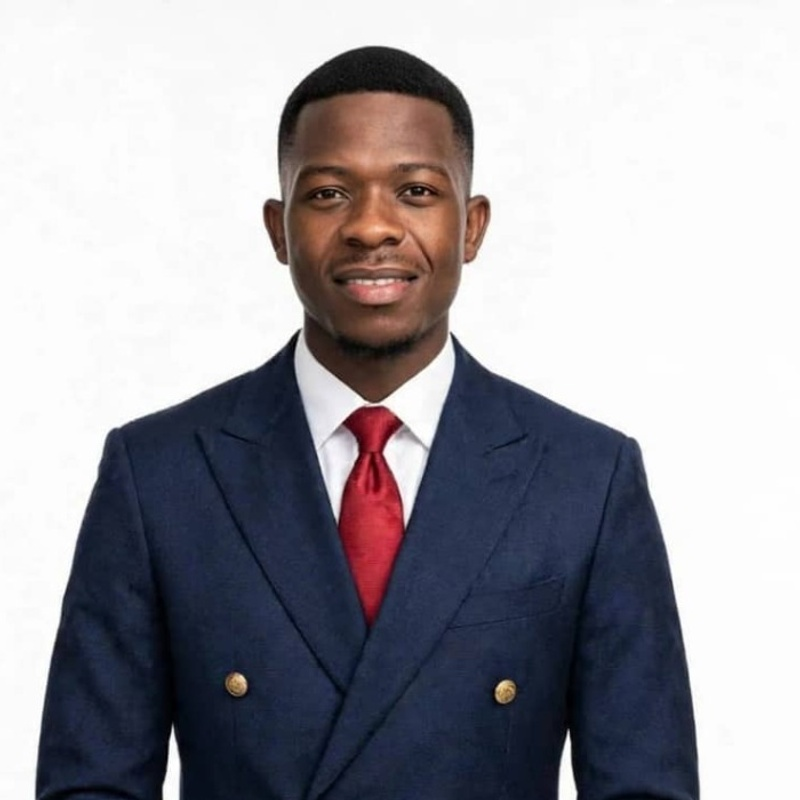
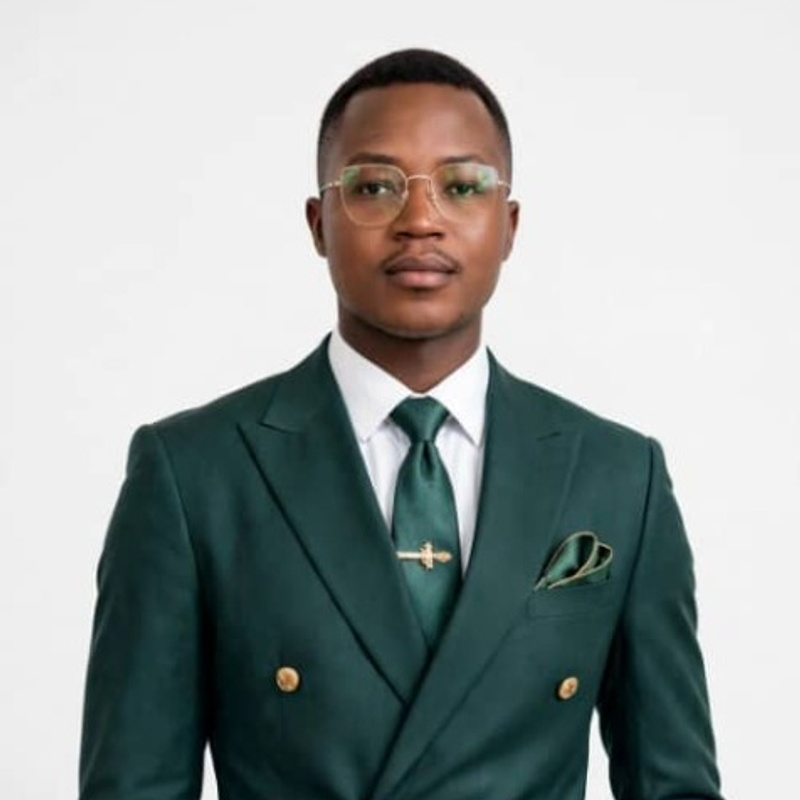
Refonte profils equipe en rondade centree, integration NKEMBE ROOSEVELT N2 et restauration photo Bikei Mbock

diff --git a/components/about/TeamCard.tsx b/components/about/TeamCard.tsx
@@ -17,6 +17,7 @@ export function TeamCard({ member, index }: TeamCardProps) {
   // Active l'affichage des photos officielles disponibles (fallback initiales si absence ou erreur)
   const MEMBERS_WITH_OFFICIAL_PHOTO = new Set([
     'eugene-gwet',
+    'nkembe-roosevelt',
     'stevia-matho',
     'alex-ngoua',
     'christian-khouya',
@@ -46,7 +47,7 @@ export function TeamCard({ member, index }: TeamCardProps) {
       animate={{ opacity: 1, y: 0 }}
       transition={{ duration: 0.5, delay: index * 0.07 }}
       whileHover={{ y: -8, transition: { duration: 0.2 } }}
-      className="glass-card p-6 border border-slate-200 dark:border-white/10 hover:border-poly-gold/50 transition-all group relative overflow-hidden holographic shadow-md dark:shadow-none flex flex-col justify-between"
+      className="glass-card p-6 border border-slate-200 dark:border-white/10 hover:border-poly-gold/50 transition-all group relative overflow-hidden holographic shadow-md dark:shadow-none flex flex-col justify-between rounded-3xl"
     >
       {/* Background glow */}
       <div className="absolute inset-0 bg-gradient-to-br from-poly-gold/10 via-transparent to-poly-cyan/10 dark:from-poly-gold/5 dark:to-poly-cyan/5 opacity-0 group-hover:opacity-100 transition-opacity duration-500 pointer-events-none" />
@@ -61,34 +62,36 @@ export function TeamCard({ member, index }: TeamCardProps) {
         </div>
       )}
 
-      {/* Photo Container Format 4*4 Officiel */}
-      <div className="relative w-44 h-44 sm:w-48 sm:h-48 aspect-square mx-auto mb-4 mt-2">
-        <div className="w-full h-full rounded-2xl border-2 border-poly-gold/50 overflow-hidden bg-slate-100 dark:bg-poly-night shadow-xl relative group-hover:border-poly-gold transition-colors duration-300">
-          {hasOfficialPhoto && !hasError ? (
-            <Image
-              src={member.photo}
-              alt={member.name}
-              fill
-              className="object-cover object-center group-hover:scale-105 transition-transform duration-500"
-              onError={() => setHasError(true)}
-              priority={member.order <= 3}
-            />
-          ) : (
-            <div className="w-full h-full flex items-center justify-center bg-gradient-to-br from-poly-gold/25 via-poly-night/60 to-poly-cyan/25 text-slate-800 dark:text-white font-black text-3xl tracking-wider select-none">
-              {initials}
-            </div>
-          )}
+      {/* Photo Container en Rondade Parfaite & Cadrage 4x4 Centré */}
+      <div className="relative w-36 h-36 sm:w-40 sm:h-40 mx-auto mb-4 mt-2">
+        {/* Anneau doré prestigieux avec halo doux */}
+        <div className="w-full h-full rounded-full p-1 bg-gradient-to-tr from-[#D4AF37] via-[#F3E5AB] to-[#0284C7] shadow-xl group-hover:shadow-2xl group-hover:shadow-[#D4AF37]/25 transition-all duration-300">
+          <div className="w-full h-full rounded-full overflow-hidden bg-slate-100 dark:bg-[#070E1B] border-2 border-white dark:border-[#070E1B] relative flex items-center justify-center">
+            {hasOfficialPhoto && !hasError ? (
+              <Image
+                src={member.photo}
+                alt={member.name}
+                fill
+                className="object-cover object-center group-hover:scale-110 transition-transform duration-500"
+                onError={() => setHasError(true)}
+                priority={member.order <= 3}
+              />
+            ) : (
+              <div className="w-full h-full flex items-center justify-center bg-gradient-to-br from-poly-gold/25 via-poly-night/60 to-poly-cyan/25 text-slate-800 dark:text-white font-black text-2xl tracking-wider select-none">
+                {initials}
+              </div>
+            )}
+          </div>
         </div>
-        {/* Order badge */}
-        <div className="absolute -bottom-2 -right-2 px-2.5 py-1 rounded-xl bg-white/95 dark:bg-[#070E1B]/95 border-2 border-poly-gold flex items-center gap-1 shadow-lg z-10 backdrop-blur-md">
-          <span className="text-[10px] font-mono text-poly-gold font-bold">N°</span>
-          <span className="text-poly-gold text-xs font-black">{member.order}</span>
+        {/* Badge N° officiel en rondade dorée */}
+        <div className="absolute -bottom-1 -right-1 w-8 h-8 rounded-full bg-white dark:bg-[#070E1B] border-2 border-[#D4AF37] flex items-center justify-center shadow-lg z-10">
+          <span className="text-[#D4AF37] text-xs font-black font-mono">{member.order}</span>
         </div>
       </div>
 
       {/* Content */}
       <div className="text-center relative z-10">
-        <h3 className="text-slate-900 dark:text-white font-bold text-base mb-1 group-hover:text-poly-gold transition-colors">
+        <h3 className="text-slate-900 dark:text-white font-black text-sm sm:text-base mb-1.5 uppercase tracking-wide group-hover:text-[#D4AF37] transition-colors leading-snug">
           {member.name}
         </h3>
         <div className="flex items-center justify-center gap-1.5 mb-3">

diff --git a/data/team.ts b/data/team.ts
@@ -21,13 +21,23 @@ export const team: TeamMember[] = [
     isFounder: true,
   },
   {
+    id: 'nkembe-roosevelt',
+    name: 'NKEMBÉ ROOSEVELT',
+    title: 'Cofondateur & Vice-Président Exécutif',
+    role: 'Vice-Président',
+    description: 'Pilier stratégique de la direction générale. Supervise le rayonnement académique, la gestion des projets d\'ingénierie et l\'excellence opérationnelle.',
+    photo: '/assets/team/nkembe-roosevelt.jpg',
+    order: 2,
+    isFounder: true,
+  },
+  {
     id: 'stevia-matho',
     name: 'MATHO KOUGOUE RE STEVA',
     title: 'Cofondatrice & Présidente-Directrice Générale',
     role: 'PDG',
     description: 'Pilote exécutive de la plateforme. Garant de l\'excellence opérationnelle et du développement académique de la communauté.',
     photo: '/assets/team/stevia-matho.jpg',
-    order: 2,
+    order: 3,
     isFounder: true,
   },
   {
@@ -37,7 +47,7 @@ export const team: TeamMember[] = [
     role: 'SG',
     description: 'Proche collaborateur du PCA. Coordonne les activités administratives et veille à la mise en œuvre des décisions stratégiques.',
     photo: '/assets/team/alex-ngoua.jpg',
-    order: 3,
+    order: 4,
   },
   {
     id: 'christian-khouya',
@@ -46,7 +56,7 @@ export const team: TeamMember[] = [
     role: 'Trésorier',
     description: 'Gardien des ressources financières de l\'organisation. Assure la transparence et la rigueur dans la gestion des fonds.',
     photo: '/assets/team/christian-khouya.jpg',
-    order: 4,
+    order: 5,
     isFounder: true,
   },
   {
@@ -56,7 +66,7 @@ export const team: TeamMember[] = [
     role: 'DIO',
     description: 'Mentor VIP des modules techniques. Architecte des systèmes informatiques et formateur certifié en outils métiers d\'ingénieur.',
     photo: '/assets/team/bikey-yannick.jpg',
-    order: 5,
+    order: 6,
   },
   {
     id: 'sarah-ondoua',
@@ -65,7 +75,7 @@ export const team: TeamMember[] = [
     role: 'Fondatrice',
     description: 'Pilier de la fondation de Réussir Polytech. Contribue activement à l\'épanouissement de la communauté étudiante.',
     photo: '/assets/team/sarah-ondoua.jpg',
-    order: 6,
+    order: 7,
     isFounder: true,
   },
   {
@@ -75,7 +85,7 @@ export const team: TeamMember[] = [
     role: 'Coordinatrice',
     description: 'Orchestratrice de la dynamique collective. Planifie et anime les sessions académiques pour maximiser la productivité du groupe.',
     photo: '/assets/team/loice-tadontsa.jpg',
-    order: 7,
+    order: 8,
   },
   {
     id: 'rose-mbog',
@@ -84,7 +94,7 @@ export const team: TeamMember[] = [
     role: 'DIA & Responsable Matériel',
     description: 'Responsable du matériel technique. Assure la continuité des infrastructures numériques et le support opérationnel.',
     photo: '/assets/team/rose-mbog.jpg',
-    order: 8,
+    order: 9,
   },
   {
     id: 'owona-amara',
@@ -93,7 +103,7 @@ export const team: TeamMember[] = [
     role: 'SGA',
     description: 'Pilier administratif et relationnel. Assure la fluidité organisationnelle et la coordination institutionnelle.',
     photo: '/assets/team/owona-amara.jpg',
-    order: 9,
+    order: 10,
   },
   {
     id: 'emmanuella-amour',
@@ -102,7 +112,7 @@ export const team: TeamMember[] = [
     role: 'Ambassadrice',
     description: 'Première représentante de la marque Réussir Polytech. Porte les valeurs de la communauté auprès du plus grand nombre.',
     photo: '/assets/team/emmanuella-amour.jpg',
-    order: 10,
+    order: 11,
   },
   {
     id: 'atyame-yolande',
@@ -111,7 +121,7 @@ export const team: TeamMember[] = [
     role: 'Ambassadrice',
     description: 'Deuxième représentante officielle. Renforce le rayonnement de Réussir Polytech au sein de l\'École Polytechnique.',
     photo: '/assets/team/atyame-yolande.jpg',
-    order: 11,
+    order: 12,
   },
   {
     id: 'franck',
@@ -120,7 +130,7 @@ export const team: TeamMember[] = [
     role: 'Communication',
     description: 'Voix et image de la communauté. Gère les canaux de communication et assiste le Secrétaire Général dans ses missions.',
     photo: '/assets/team/franck.jpg',
-    order: 12,
+    order: 13,
   },
   {
     id: 'pacha',
@@ -129,6 +139,6 @@ export const team: TeamMember[] = [
     role: 'Leader Cadets',
     description: 'Guide et mentor des étudiants MSP1 en filière généraliste. Catalyseur de cohésion et d\'excellence pour les nouvelles recrues.',
     photo: '/assets/team/pacha.jpg',
-    order: 13,
+    order: 14,
   },
 ];

diff --git a/components/home/FamilyGalleryMarquee.tsx b/components/home/FamilyGalleryMarquee.tsx
@@ -42,87 +42,94 @@ const familyPhotos = [
     isLarge: false,
   },
   {
+    image: '/assets/team/nkembe-roosevelt.jpg',
+    title: 'NKEMBÉ ROOSEVELT',
+    caption: 'Cofondateur & Vice-Président Exécutif',
+    tag: 'N°2 • Vice-Président',
+    isLarge: false,
+  },
+  {
     image: '/assets/team/stevia-matho.jpg',
     title: 'MATHO KOUGOUE RE STEVA',
     caption: 'Cofondatrice & PDG',
-    tag: 'N°2 • PDG',
+    tag: 'N°3 • PDG',
     isLarge: false,
   },
   {
     image: '/assets/team/alex-ngoua.jpg',
     title: 'NGOUA EDOU ALEX',
     caption: 'Secrétaire Général',
-    tag: 'N°3 • SG',
+    tag: 'N°4 • SG',
     isLarge: false,
   },
   {
     image: '/assets/team/christian-khouya.jpg',
     title: 'KOUYA CHRISTIAN LANDRY',
     caption: 'Cofondateur & Trésorier',
-    tag: 'N°4 • Trésorier',
+    tag: 'N°5 • Trésorier',
     isLarge: false,
   },
   {
     image: '/assets/team/bikey-yannick.jpg',
     title: 'BIKEI MBOCK PIERRE YANNICK',
     caption: 'Directeur Informatique (DIO)',
-    tag: 'N°5 • DIO',
+    tag: 'N°6 • DIO',
     isLarge: false,
   },
   {
     image: '/assets/team/sarah-ondoua.jpg',
     title: 'ONDOUA ELLE SARA',
     caption: 'Cofondatrice',
-    tag: 'N°6 • Fondatrice',
+    tag: 'N°7 • Fondatrice',
     isLarge: false,
   },
   {
     image: '/assets/team/loice-tadontsa.jpg',
     title: 'TADONTSA JEUGO LOÏCE GRACIELLE',
     caption: 'Coordinatrice des activités',
-    tag: 'N°7 • Coordinatrice',
+    tag: 'N°8 • Coordinatrice',
     isLarge: false,
   },
   {
     image: '/assets/team/rose-mbog.jpg',
     title: 'MBOG ROSE EMMANUELLA',
     caption: 'Directrice Informatique Adjointe',
-    tag: 'N°8 • DIA',
+    tag: 'N°9 • DIA',
     isLarge: false,
   },
   {
     image: '/assets/team/owona-amara.jpg',
     title: 'OWONA AMARA MICHELLE ARMELLE',
     caption: 'Secrétaire Générale Adjointe',
-    tag: 'N°9 • SGA',
+    tag: 'N°10 • SGA',
     isLarge: false,
   },
   {
     image: '/assets/team/emmanuella-amour.jpg',
     title: 'NGUEDE TSIMI EMMANUELLA AMOUR',
     caption: 'Ambassadrice N°1',
-    tag: 'N°10 • Ambassadrice',
+    tag: 'N°11 • Ambassadrice',
     isLarge: false,
   },
   {
     image: '/assets/team/atyame-yolande.jpg',
     title: 'ATYAME BISSO JACKIE YOLANDE HORNELLA',
     caption: 'Ambassadrice N°2',
-    tag: 'N°11 • Ambassadrice',
+    tag: 'N°12 • Ambassadrice',
     isLarge: false,
   },
   {
     image: '/assets/team/franck.jpg',
     title: 'ETOBE FRANCK LOÏC ISAAC',
     caption: 'Communication & Assistant SG',
-    tag: 'N°12 • Communication',
+    tag: 'N°13 • Communication',
     isLarge: false,
   },
   {
     image: '/assets/team/pacha.jpg',
     title: 'BAYI ASSOGOLO STÉPHANE GAEL (PACHA)',
     caption: 'Leader des cadets MSP1',
-    tag: 'N°13 • Leader Cadets',
+    tag: 'N°14 • Leader Cadets',
     isLarge: false,
   },
 ];

diff --git a/README.md b/README.md
@@ -111,6 +111,7 @@ Placez ces fichiers dans `/public/assets/` :
 
 - `hero-engineers.jpg` — Photo héro ingénieurs avec casques
 - `team/eugene-gwet.jpg` — Photo Eugène Samuel GWET
+- `team/nkembe-roosevelt.jpg` — Photo Roosevelt Nkembé
 - `team/stevia-matho.jpg` — Photo Stevia Matho Re
 - `team/alex-ngoua.jpg` — Photo Alex Ngoua Edou
 - `team/christian-khouya.jpg` — Photo Khouya Christian Landry
